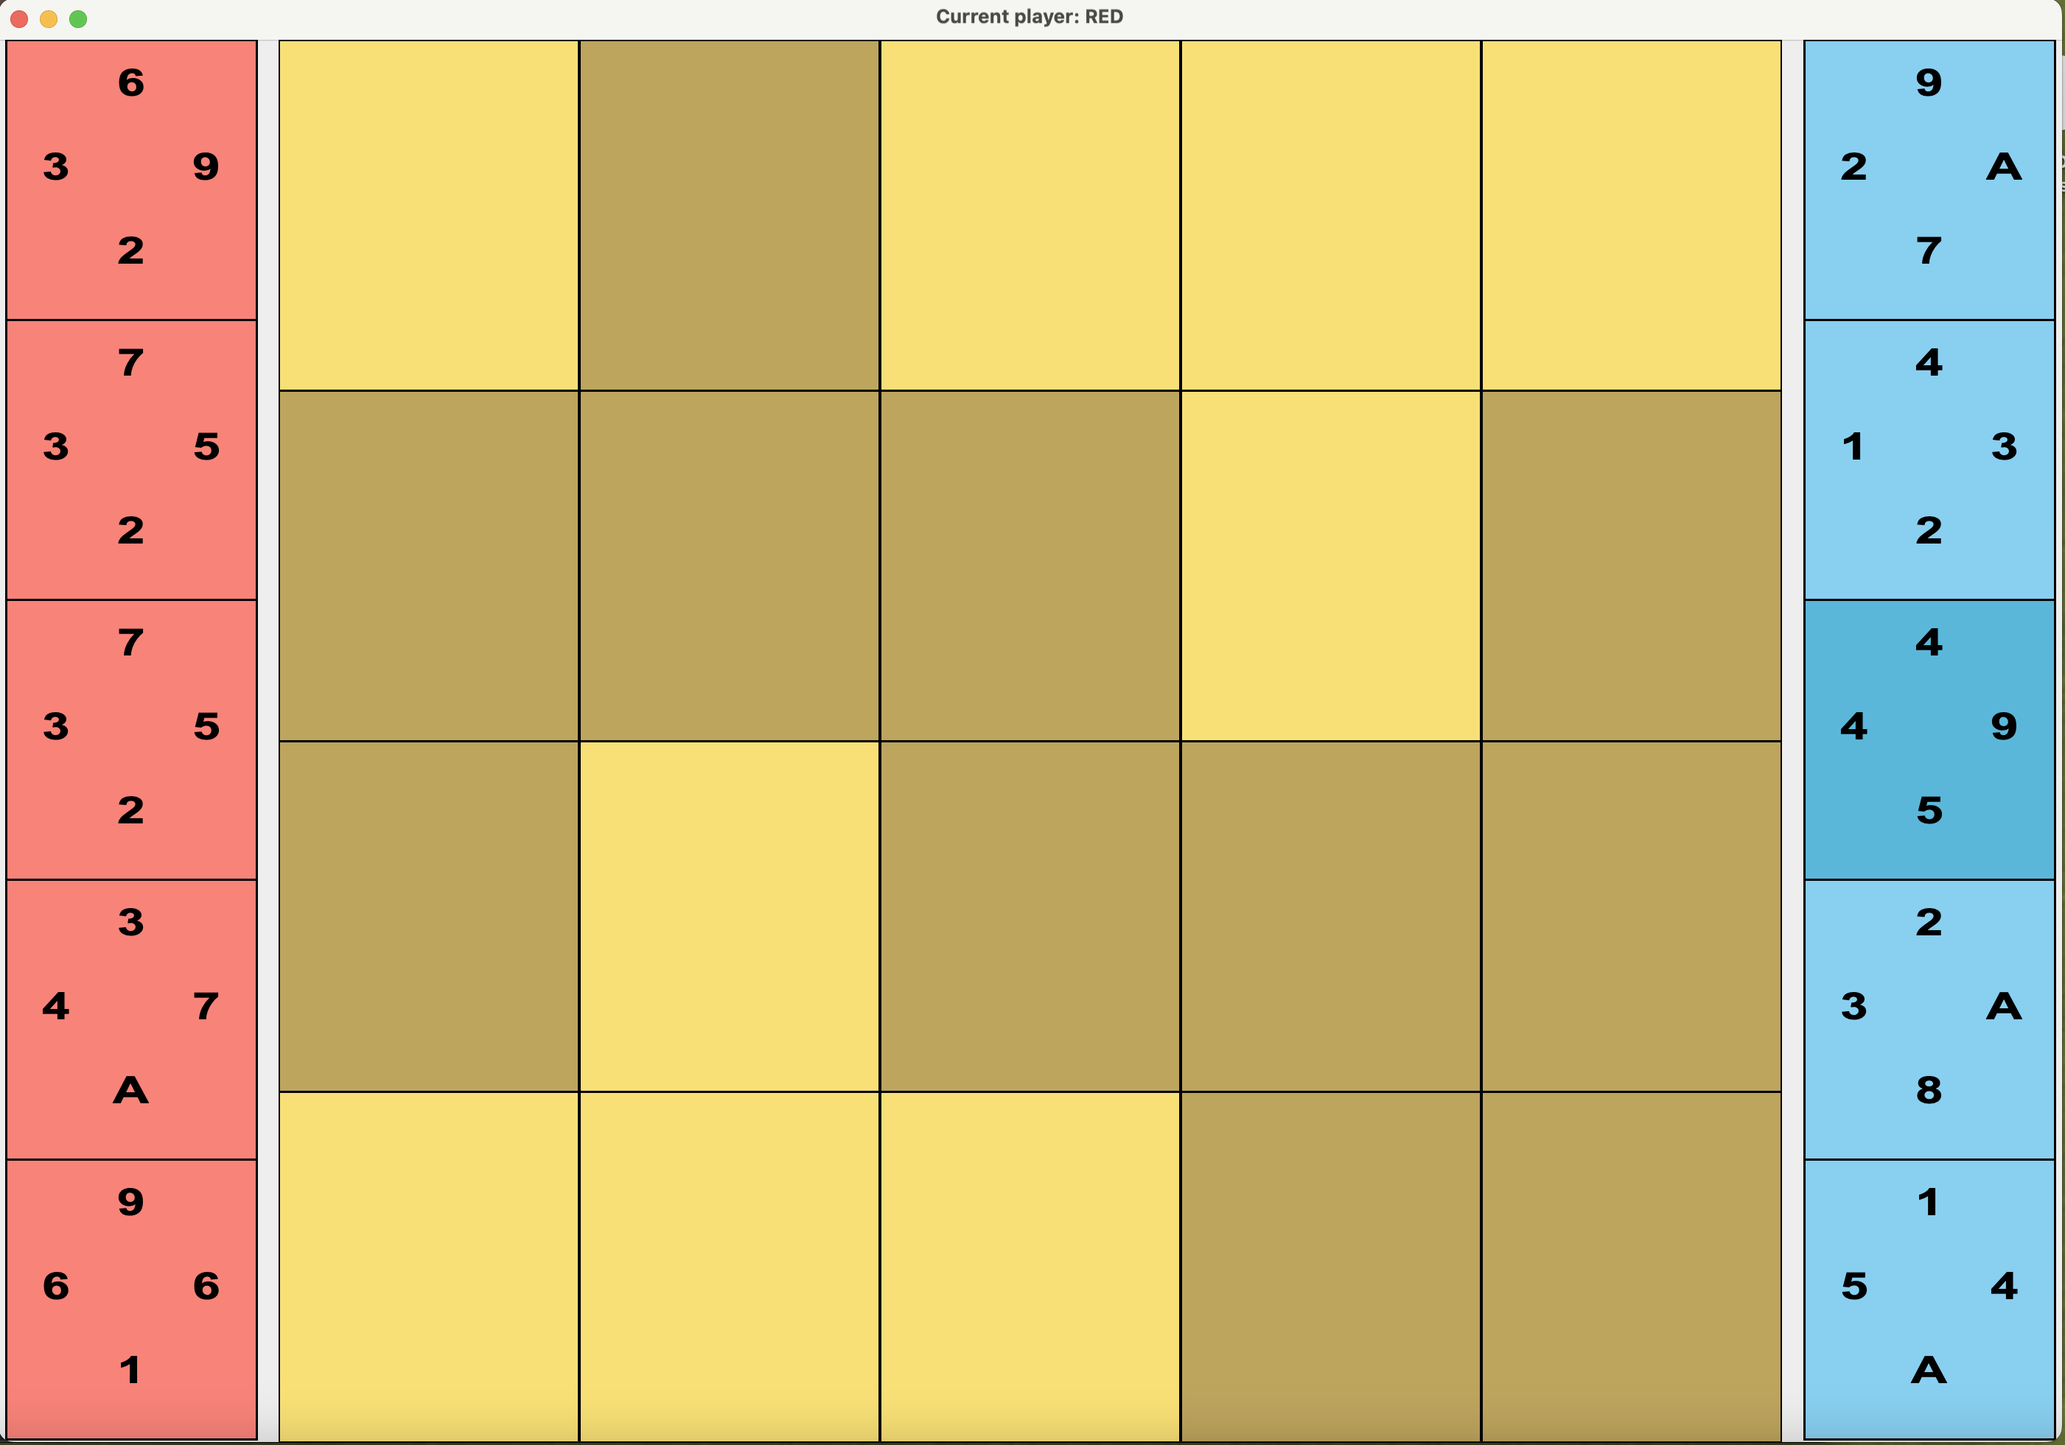
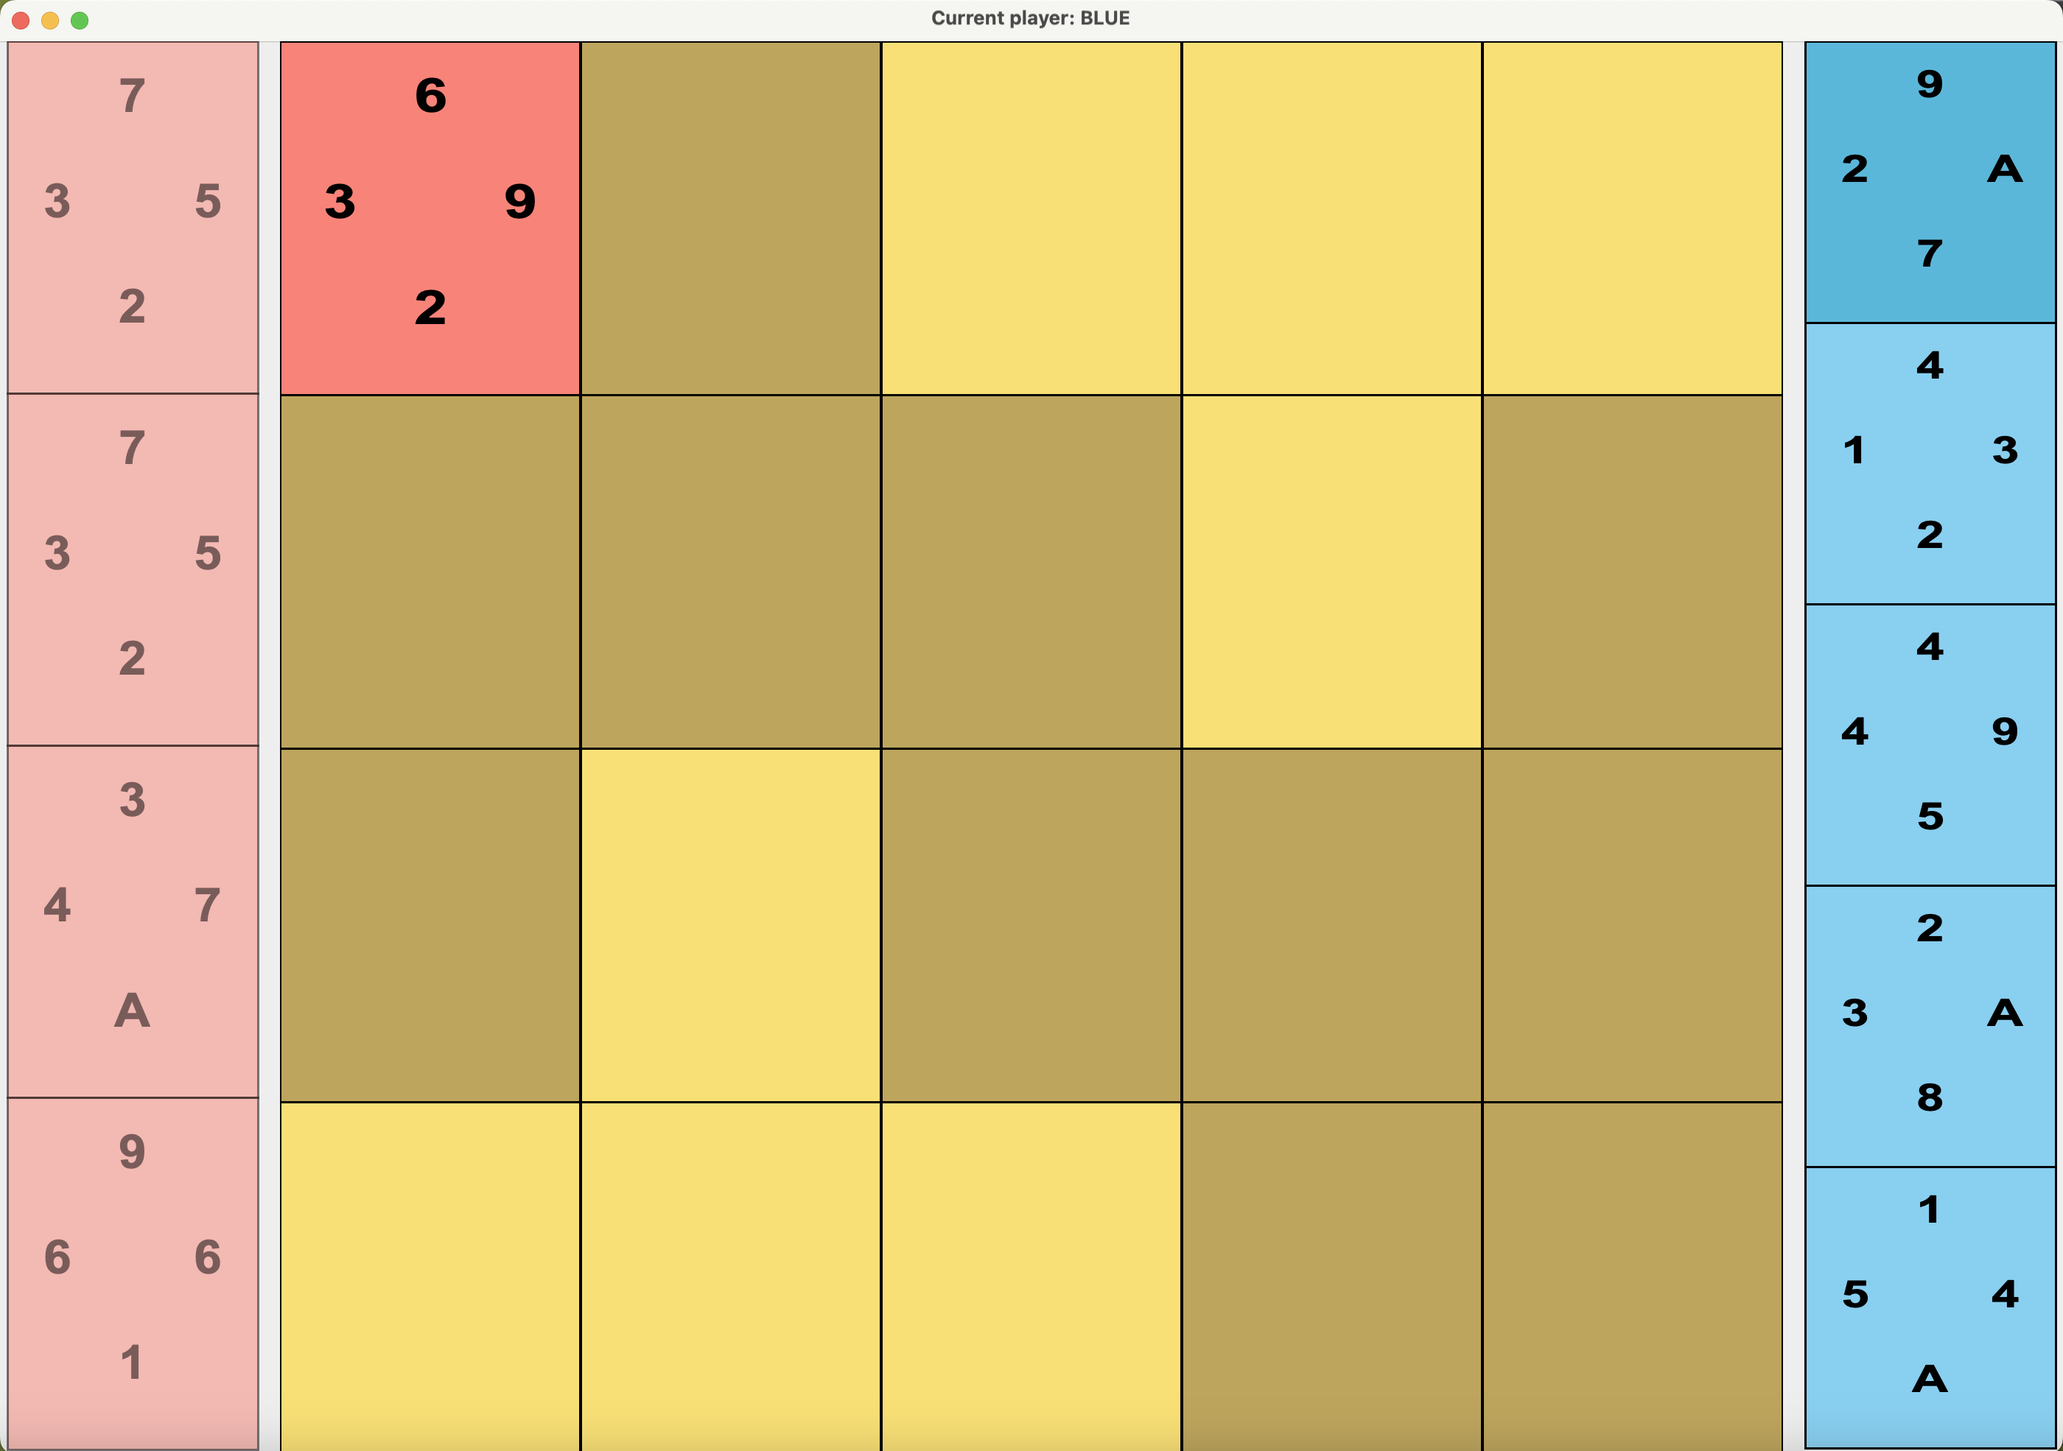
refactor flip card strategy to be infallible

diff --git a/src/strategy/infallible/FlipCardsInfallibleStrategy.java b/src/strategy/infallible/FlipCardsInfallibleStrategy.java
@@ -1,40 +1,98 @@
 package strategy.infallible;
 
+import java.util.Comparator;
+import java.util.HashMap;
+import java.util.List;
+import java.util.Map;
 import java.util.Optional;
+import java.util.stream.Collectors;
 
 import model.enums.GamePlayer;
+import model.interfaces.Cell;
 import model.interfaces.ReadOnlyGameModel;
+import strategy.AbstractStrategy;
 import strategy.Move;
 import strategy.Pair;
-import strategy.fallible.FlipCardsFallibleStrategy;
+import strategy.ThreeTriosMove;
 
 /**
- * Represent the strategy that attempts to flip as many cards as possible. Must return a move
- * and fall back to upper left strategy if this strategy fails. This strategy will throw exception
- * if no strategies can be found.
+ * Represent the strategy that attempts to flip as many cards as possible. Must return a move.
+ * This strategy will throw exception if no strategies can be found.
  */
-public class FlipCardsInfallibleStrategy implements InfallibleGameStrategy {
-  private final FlipCardsFallibleStrategy flipCardsStrategy;
-  private final UpperLeftInfallibleStrategy fallBackUpperLeft;
-
+public class FlipCardsInfallibleStrategy extends AbstractStrategy implements InfallibleGameStrategy {
   /**
-   * Construct a new instance of infallible flipping as many cards as possible strategy.
+   * Decide what is the next best move to play given the model and the player.
+   *
+   * @param model read only game model
+   * @param player player in the game, Red or Blue
+   * @return a next best move if it can find one, if not return empty
+   * @throws IllegalArgumentException if model is null or player is null
+   * @throws IllegalStateException if no move can be found
    */
-  public FlipCardsInfallibleStrategy() {
-    this.flipCardsStrategy = new FlipCardsFallibleStrategy();
-    this.fallBackUpperLeft = new UpperLeftInfallibleStrategy();
+  @Override
+  public Pair<Move, Integer> decideMove(ReadOnlyGameModel model, GamePlayer player) {
+    if (model == null || player == null) {
+      throw new IllegalArgumentException("Model or player cannot be null");
+    }
+    Map<Move, Integer> moves = new HashMap<>();
+    List<Cell> playerHand = model.getHand(player);
+    // get all moves and its score into the new hashmap
+    getAllPossibleMoves(moves, playerHand, model);
+    // filter out only max score moves
+    Map<Move, Integer> maxMoves = filterMaxScoreMoves(moves);
+    // resolve ties between the max moves
+    Optional<Pair<Move, Integer>> bestMove = getBestMoveWithTieBreaking(maxMoves, playerHand);
+    if (bestMove.isEmpty()) {
+      throw new IllegalStateException("Cannot find move");
+    }
+    return bestMove.get();
   }
 
   /**
-   * Find the next best move for a player in the game.
+   * Get all possible placements in grid for all cards in hand and add them to hash map.
    *
-   * @param model read only game model to track current state of game
-   * @param player player to find the move for
-   * @return a next best move for a player
-   * @throws IllegalStateException if a move is not found
+   * @param map map of moves
+   * @param playerHand all cards in player's hand
+   * @param model game model
    */
-  public Pair<Move, Integer> decideMove(ReadOnlyGameModel model, GamePlayer player) {
-    Optional<Pair<Move, Integer>> flipCardsMove = flipCardsStrategy.decideMove(model, player);
-    return flipCardsMove.orElseGet(() -> fallBackUpperLeft.decideMove(model, player));
+  private void getAllPossibleMoves(Map<Move,Integer> map, List<Cell> playerHand,
+                                   ReadOnlyGameModel model) {
+    for (Cell card : playerHand) {
+      checkCardPlacementInGrid(map, model, card);
+    }
+  }
+
+  /**
+   * Get all possible placements in grid for a card and add them to hash map.
+   *
+   * @param map map of moves
+   * @param model all cards in player's hand
+   * @param handCard game model
+   */
+  private void checkCardPlacementInGrid(Map<Move,Integer> map, ReadOnlyGameModel model,
+                                        Cell handCard) {
+    Cell[][] grid = model.getGrid();
+    for (int row = 0; row < grid.length; row++) {
+      for (int col = 0; col < grid[0].length; col++) {
+        if (model.canPlaceCard(row, col)) {
+          int flippedCards = model.countCardFlip(handCard, row, col);
+          map.put(new ThreeTriosMove(handCard, row, col), flippedCards +
+                  model.getScore(model.getCurrentPlayer()));
+        }
+      }
+    }
+  }
+
+  /**
+   * Filter out the moves that can give the highest scores.
+   *
+   * @param moves map of all moves
+   * @return map of moves that give the highest scores
+   */
+  private Map<Move, Integer> filterMaxScoreMoves(Map<Move, Integer> moves) {
+    int maxScores = moves.values().stream().max(Integer::compare).orElse(0);
+    return moves.entrySet().stream()
+            .filter(entry -> entry.getValue() == maxScores)
+            .collect(Collectors.toMap(Map.Entry::getKey, Map.Entry::getValue));
   }
 }

diff --git a/src/model/implementation/ThreeTriosViewModel.java b/src/model/implementation/ThreeTriosViewModel.java
@@ -9,10 +9,24 @@ import model.interfaces.Cell;
 import model.interfaces.GameModel;
 import model.interfaces.ReadOnlyGameModel;
 
+/**
+ * Represents the adapter for GameModel. This utilizes object adapter, which adapts the GameModel
+ * into a ReadOnlyGameModel to prevent the view from mutating the game model or casting it to
+ * access mutation methods.
+ */
 public class ThreeTriosViewModel implements ReadOnlyGameModel {
   private final GameModel adaptee;
 
+  /**
+   * Construct a new instance of ReadOnlyGameModel.
+   *
+   * @param adaptee the GameModel to adapt to ReadOnlyGameModel
+   * @throws IllegalArgumentException if the model is null
+   */
   public ThreeTriosViewModel(GameModel adaptee) {
+    if (adaptee == null) {
+      throw new IllegalArgumentException("Model cannot be null");
+    }
     this.adaptee = adaptee;
   }
 
@@ -42,8 +56,8 @@ public class ThreeTriosViewModel implements ReadOnlyGameModel {
   /**
    * Check if a card can be placed in a position in the model.
    *
-   * @param row
-   * @param col
+   * @param row row index (0-indexed)
+   * @param col col index (0-indexed)
    * @throws IllegalArgumentException if row or col is out of bound
    */
   @Override
@@ -113,7 +127,7 @@ public class ThreeTriosViewModel implements ReadOnlyGameModel {
   /**
    * Get the score of a player.
    *
-   * @param player
+   * @param player a player in the game (one of Red and Blue)
    * @return the number of cards owned in grid and hand of a player
    * @throws IllegalStateException if the game is not started
    */
@@ -125,8 +139,8 @@ public class ThreeTriosViewModel implements ReadOnlyGameModel {
   /**
    * Get card at a position in grid.
    *
-   * @param row row index
-   * @param col col index
+   * @param row row index (0-indexed)
+   * @param col col index (0-indexed)
    * @return the card at a row and position in grid
    * @throws IllegalArgumentException if index is out of bound
    * @throws IllegalStateException    if there is no card at that position
@@ -140,8 +154,8 @@ public class ThreeTriosViewModel implements ReadOnlyGameModel {
   /**
    * Get the owner of a card given row index and column index (0-based).
    *
-   * @param row row index
-   * @param col column index
+   * @param row row index (0-indexed)
+   * @param col column index (0-indexed)
    * @return the player that owns the card at specific location on grid
    * @throws IllegalStateException    if there is no card at the location
    * @throws IllegalArgumentException if index is out of bound

diff --git a/src/view/gui/CellCard.java b/src/view/gui/CellCard.java
@@ -27,6 +27,11 @@ class CellCard extends Path2D.Double {
     closePath();
   }
 
+  /**
+   * Draw the graphics.
+   *
+   * @param g2d
+   */
   public void draw(Graphics2D g2d) {
     g2d.setColor(color);
     g2d.fill(this);
@@ -57,24 +62,52 @@ class CellCard extends Path2D.Double {
     g2d.drawString(attackValue, x - (float) g2d.getFontMetrics().stringWidth(attackValue) / 2, y);
   }
 
+  /**
+   * Represents the builder class for the class.
+   */
   public static class CardBuilder {
     private Color color;
     private AttackValue[] attackValues;
+
+    /**
+     * Construct a new instance of CardBuilder.
+     */
     public CardBuilder() {
       color = Color.WHITE; // default to white
       attackValues = new AttackValue[]{}; // default to empty
     }
 
+    /**
+     * Set the color of the card.
+     *
+     * @param color color of card
+     * @return the CardBuilder
+     */
     public CardBuilder setColor(Color color) {
+      if (color == null) {
+        throw new IllegalArgumentException("Color cannot be null");
+      }
       this.color = color;
       return this;
     }
 
+    /**
+     * Set the attack values to draw them on the card.
+     *
+     * @param attackValues attack values of card
+     * @return the CardBuilder
+     */
     public CardBuilder setAttackValues(AttackValue[] attackValues) {
       this.attackValues = attackValues;
       return this;
     }
 
+    /**
+     * Create the instance of card after customization. Return an empty white card cell if
+     * no customization is provided.
+     *
+     * @return a new instance of CellCard
+     */
     CellCard build() {
       return new CellCard(color, attackValues);
     }

diff --git a/src/strategy/AbstractStrategy.java b/src/strategy/AbstractStrategy.java
@@ -1,4 +1,4 @@
-package strategy.fallible;
+package strategy;
 
 import java.util.Comparator;
 import java.util.List;
@@ -6,13 +6,12 @@ import java.util.Map;
 import java.util.Optional;
 
 import model.interfaces.Cell;
-import strategy.Move;
-import strategy.Pair;
 
 /**
- * Represent the abstract fallible strategy.
+ * Represent abstract class for strategy, which shares the breaking tie method between infallible
+ * and fallible strategies.
  */
-abstract class AbstractFallibleStrategy implements FallibleGameStrategy {
+abstract public class AbstractStrategy {
 
   /**
    * Break ties between the moves if there are more than one next best moves. It will prioritize
@@ -21,10 +20,13 @@ abstract class AbstractFallibleStrategy implements FallibleGameStrategy {
    *
    * @param maxMoves all the moves that increase score of a player
    * @param playerHand list of cells in player hand
-   * @return the best move after breaking tie.
+   * @return the best move after breaking tie if it can find one, else return empty
    */
   protected Optional<Pair<Move, Integer>> getBestMoveWithTieBreaking(Map<Move, Integer> maxMoves,
                                                                      List<Cell> playerHand) {
+    if (maxMoves == null || playerHand == null) {
+      throw new IllegalArgumentException("Moves and hand cannot be null");
+    }
     return maxMoves.keySet().stream()
             .sorted(Comparator.comparingInt(Move::getRow) // most upper
                     .thenComparingInt(Move::getCol) // most left

diff --git a/test/strategy/CornerStrategyTest.java b/test/strategy/CornerStrategyTest.java
@@ -290,4 +290,26 @@ public class CornerStrategyTest {
             // (2, 2) is opened so now count card flip in it
             "count card flip with card EarthLizard in row 2 and col 2", content);
   }
+
+  @Test(expected = IllegalArgumentException.class)
+  public void cornerStrategyFallibleNullModel() {
+    new CornerFallibleStrategy().decideMove(null, GamePlayer.RED);
+  }
+
+  @Test(expected = IllegalArgumentException.class)
+  public void cornerStrategyInfallibleNullModel() {
+    new CornerFallibleStrategy().decideMove(null, GamePlayer.RED);
+  }
+
+  @Test(expected = IllegalArgumentException.class)
+  public void cornerStrategyFallibleNullPlayer() {
+    GameModel model = Utils.loadModel("no_holes.txt", "big_cards.txt");
+    new CornerFallibleStrategy().decideMove(model, null);
+  }
+
+  @Test(expected = IllegalArgumentException.class)
+  public void cornerStrategyInfallibleNullPlayer() {
+    GameModel model = Utils.loadModel("no_holes.txt", "big_cards.txt");
+    new CornerInfallibleStrategy().decideMove(model, null);
+  }
 }

diff --git a/src/strategy/fallible/CornerFallibleStrategy.java b/src/strategy/fallible/CornerFallibleStrategy.java
@@ -12,6 +12,7 @@ import model.enums.Direction;
 import model.enums.GamePlayer;
 import model.interfaces.Cell;
 import model.interfaces.ReadOnlyGameModel;
+import strategy.AbstractStrategy;
 import strategy.Move;
 import strategy.Pair;
 import strategy.ThreeTriosMove;
@@ -22,7 +23,7 @@ import strategy.ThreeTriosMove;
  * meaning it has a high attack value in the direction that attack value is exposed, since there
  * is low probability of having another high card to flip that card.
  */
-public class CornerFallibleStrategy extends AbstractFallibleStrategy {
+public class CornerFallibleStrategy extends AbstractStrategy implements FallibleGameStrategy {
 
   /**
    * Decide what is the next best move to play given the model and the player.

diff --git a/src/strategy/infallible/UpperLeftInfallibleStrategy.java b/src/strategy/infallible/UpperLeftInfallibleStrategy.java
@@ -22,8 +22,12 @@ public class UpperLeftInfallibleStrategy implements InfallibleGameStrategy {
    * @param player player to find the move for
    * @return a next best move for a player
    * @throws IllegalStateException if a move is not found
+   * @throws IllegalArgumentException if model or player is null
    */
   public Pair<Move, Integer> decideMove(ReadOnlyGameModel model, GamePlayer player) {
+    if (model == null || player == null) {
+      throw new IllegalArgumentException("Model or player cannot be null");
+    }
     Cell[][] grid = model.getGrid();
     List<Cell> playerHand = model.getHand(player);
     for (int row = 0; row < grid.length; row++) {

diff --git a/src/controller/Feature.java b/src/controller/Feature.java
@@ -4,6 +4,8 @@ import model.enums.GamePlayer;
 
 /**
  * Represents the feature of the game. This interface should be implemented by the controller.
+ * The method of this interface is temporary, and will change with the specification of the
+ * controller.
  */
 public interface Feature {
 
@@ -11,7 +13,7 @@ public interface Feature {
    * Print in the console what index and which player clicks a card.
    *
    * @param index index of card in a hand (0-indexed)
-   * @param player player who owns the card
+   * @param player player who owns the card (Red or Blue)
    */
   void printCardClicked(int index, GamePlayer player);
 

diff --git a/src/strategy/infallible/CornerInfallibleStrategy.java b/src/strategy/infallible/CornerInfallibleStrategy.java
@@ -33,6 +33,7 @@ public class CornerInfallibleStrategy implements InfallibleGameStrategy {
    * @param player player to find the move for
    * @return a next best move for a player
    * @throws IllegalStateException if a move is not found
+   * @throws IllegalArgumentException if model or player is null
    */
   public Pair<Move, Integer> decideMove(ReadOnlyGameModel model, GamePlayer player) {
     Optional<Pair<Move, Integer>> cornerMove = cornerStrategy.decideMove(model, player);

diff --git a/src/controller/ThreeTriosController.java b/src/controller/ThreeTriosController.java
@@ -18,6 +18,7 @@ public class ThreeTriosController implements GameController {
    * Construct a new controller given a game model.
    *
    * @param model core logic model of the game
+   * @param log appendable object (this will change when specification of controller changes)
    * @throws IllegalArgumentException if the model or appendable is null
    */
   public ThreeTriosController(GameModel model, Appendable log) {

diff --git a/src/strategy/fallible/FallibleGameStrategy.java b/src/strategy/fallible/FallibleGameStrategy.java
@@ -18,6 +18,7 @@ public interface FallibleGameStrategy {
    * @param model read only game model
    * @param player player in the game, Red or Blue
    * @return a next best move if it can find one, if not return empty
+   * @throws IllegalArgumentException if model or player is null
    */
   Optional<Pair<Move, Integer>> decideMove(ReadOnlyGameModel model, GamePlayer player);
 }

diff --git a/src/strategy/infallible/InfallibleGameStrategy.java b/src/strategy/infallible/InfallibleGameStrategy.java
@@ -17,6 +17,7 @@ public interface InfallibleGameStrategy {
    * @param player player to find the move for
    * @return a next best move for a player
    * @throws IllegalStateException if a move is not found
+   * @throws IllegalArgumentException if model or player is null
    */
   Pair<Move, Integer> decideMove(ReadOnlyGameModel model, GamePlayer player);
 }
